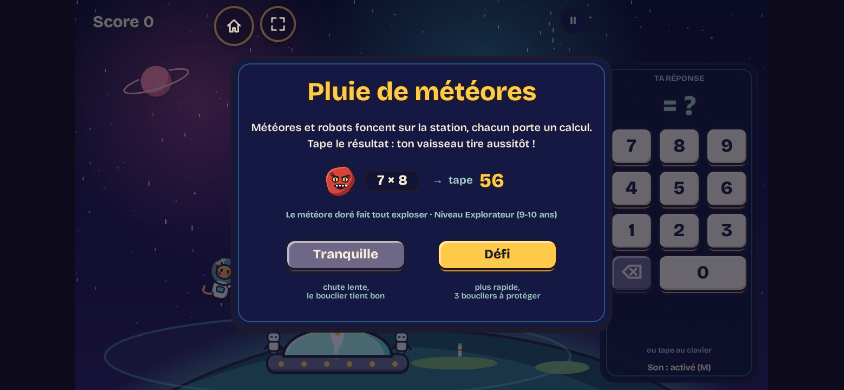
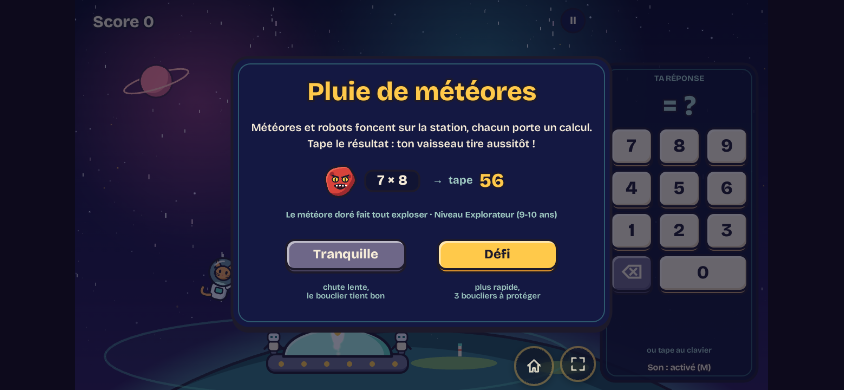
Boutons Accueil et Plein écran en bas à droite (demande de Philippe)
Placés à l'endroit libre de chaque jeu (le coin même porte « Son », un pavé
ou un panneau), jamais sous le bord du jeu sur petit écran.

Changed region(s): [[0.2464, 0.0, 0.3697, 0.1231], [0.6161, 0.8923, 0.7085, 1.0], [0.2156, 0.6462, 0.2773, 0.7692]]

diff --git a/src/game/plein-ecran.ts b/src/game/plein-ecran.ts
@@ -1,7 +1,7 @@
 /**
  * Plein écran et retour à l'accueil, communs aux quatre jeux.
  *
- * - Deux boutons ronds discrets en haut du jeu : « Accueil » et « Plein écran » (entrer / sortir).
+ * - Deux boutons ronds discrets en bas à droite du jeu : « Accueil » et « Plein écran » (entrer / sortir).
  * - Le jeu passe en plein écran quand on clique ou touche « Jouer », si le navigateur l'accepte.
  *   Les navigateurs n'autorisent le plein écran que juste après un geste (clic, toucher, touche) :
  *   on ne contourne jamais cette règle ; si la demande échoue, le jeu continue dans la page.
@@ -107,11 +107,17 @@ function icone(nom: keyof typeof ICONES): SVGSVGElement {
   return svg;
 }
 
+/** Coin où poser les boutons, en unités de la scène (1280 × 720) : bord droit et milieu vertical. */
+export interface Coin {
+  droite: number;
+  milieu: number;
+}
+
 /**
- * Installe les boutons sur la page d'un jeu. `ancre` : position des boutons, en fraction de la largeur
- * du jeu (le haut du jeu est libre dans les quatre jeux entre 20 % et 33 % de la largeur environ).
+ * Installe les boutons sur la page d'un jeu, en bas à droite, à l'endroit libre de chaque jeu
+ * (le coin même est souvent pris par « Son », un pavé ou un panneau).
  */
-export function installerPleinEcran(game: Phaser.Game, ancre = 0.2): void {
+export function installerPleinEcran(game: Phaser.Game, coin: Coin = { droite: 1268, milieu: 690 }): void {
   if (installe) return;
   installe = true;
   const barre = document.createElement('nav');
@@ -161,8 +167,11 @@ export function installerPleinEcran(game: Phaser.Game, ancre = 0.2): void {
     const r = canvas.getBoundingClientRect();
     const petit = r.height < 480;
     barre.classList.toggle('petit', petit);
-    barre.style.left = `${Math.round(r.left + r.width * ancre)}px`;
-    barre.style.top = `${Math.round(r.top + Math.max(6, r.height * 0.014))}px`;
+    const b = barre.getBoundingClientRect();
+    barre.style.left = `${Math.round(r.left + (coin.droite / 1280) * r.width - b.width)}px`;
+    // Jamais sous le bord du jeu (petits écrans : les boutons sont alors plus grands que l'espace prévu).
+    const haut = Math.min(r.top + (coin.milieu / 720) * r.height - b.height / 2, r.bottom - b.height - 4);
+    barre.style.top = `${Math.round(haut)}px`;
   };
   const surChangement = () => {
     // Sortie par Échap ou par le système : on ne réimpose plus le plein écran dans cet onglet.

diff --git a/src/styles/game.css b/src/styles/game.css
@@ -24,7 +24,7 @@ body {
   background: #0d0a1c;
 }
 
-/* Boutons « Accueil » et « Plein écran », posés en haut du jeu par plein-ecran.ts. Sans
+/* Boutons « Accueil » et « Plein écran », posés en bas à droite du jeu par plein-ecran.ts. Sans
    JavaScript, le lien d'accueil reste en bas à droite. */
 .retour {
   position: fixed;

diff --git a/src/entries/cubes.ts b/src/entries/cubes.ts
@@ -26,7 +26,7 @@ async function start(): Promise<void> {
     scale: { mode: Phaser.Scale.FIT, autoCenter: Phaser.Scale.CENTER_BOTH },
     scene: [CubesDeSiegeScene],
   });
-  installerPleinEcran(game);
+  installerPleinEcran(game, { droite: 1268, milieu: 688 });
 }
 
 void start();

diff --git a/src/entries/dragon.ts b/src/entries/dragon.ts
@@ -26,7 +26,7 @@ async function start(): Promise<void> {
     scale: { mode: Phaser.Scale.FIT, autoCenter: Phaser.Scale.CENTER_BOTH },
     scene: [DragonScene],
   });
-  installerPleinEcran(game);
+  installerPleinEcran(game, { droite: 1000, milieu: 694 });
 }
 
 void start();

diff --git a/src/entries/fusee.ts b/src/entries/fusee.ts
@@ -25,7 +25,7 @@ async function start(): Promise<void> {
     scale: { mode: Phaser.Scale.FIT, autoCenter: Phaser.Scale.CENTER_BOTH },
     scene: [RocketScene],
   });
-  installerPleinEcran(game);
+  installerPleinEcran(game, { droite: 1036, milieu: 692 });
 }
 
 void start();

diff --git a/src/entries/meteores.ts b/src/entries/meteores.ts
@@ -26,7 +26,7 @@ async function start(): Promise<void> {
     scale: { mode: Phaser.Scale.FIT, autoCenter: Phaser.Scale.CENTER_BOTH },
     scene: [MeteorScene],
   });
-  installerPleinEcran(game);
+  installerPleinEcran(game, { droite: 962, milieu: 690 });
 }
 
 void start();

diff --git a/JOURNAL_PROJET.md b/JOURNAL_PROJET.md
@@ -50,7 +50,7 @@ plein écran dans les quatre jeux, pensé pour la tablette.
     prochain coup réussi fait double dégâts (le score ne change pas), tampon « MÉGA ! ».
   - Correction au passage : Phaser pouvait relire deux fois la file clavier quand une image est lente (un chiffre
     comptait double) ; les touches sont désormais dédoublonnées.
-- **Plein écran** (`src/game/plein-ecran.ts`, quatre jeux) : deux boutons ronds en haut du jeu (Accueil, Plein
+- **Plein écran** (`src/game/plein-ecran.ts`, quatre jeux) : deux boutons ronds en bas à droite (Accueil, Plein
   écran entrer/sortir) remplacent le lien du bas qui chevauchait « Son ». Plein écran demandé en lançant la partie
   (clic, doigt — au lever du doigt pour Chrome —, clavier), jamais forcé : refus du navigateur = le jeu continue ;
   sortie volontaire (Échap, bouton) = plus de demande dans cet onglet. Page entière en plein écran (les boutons
